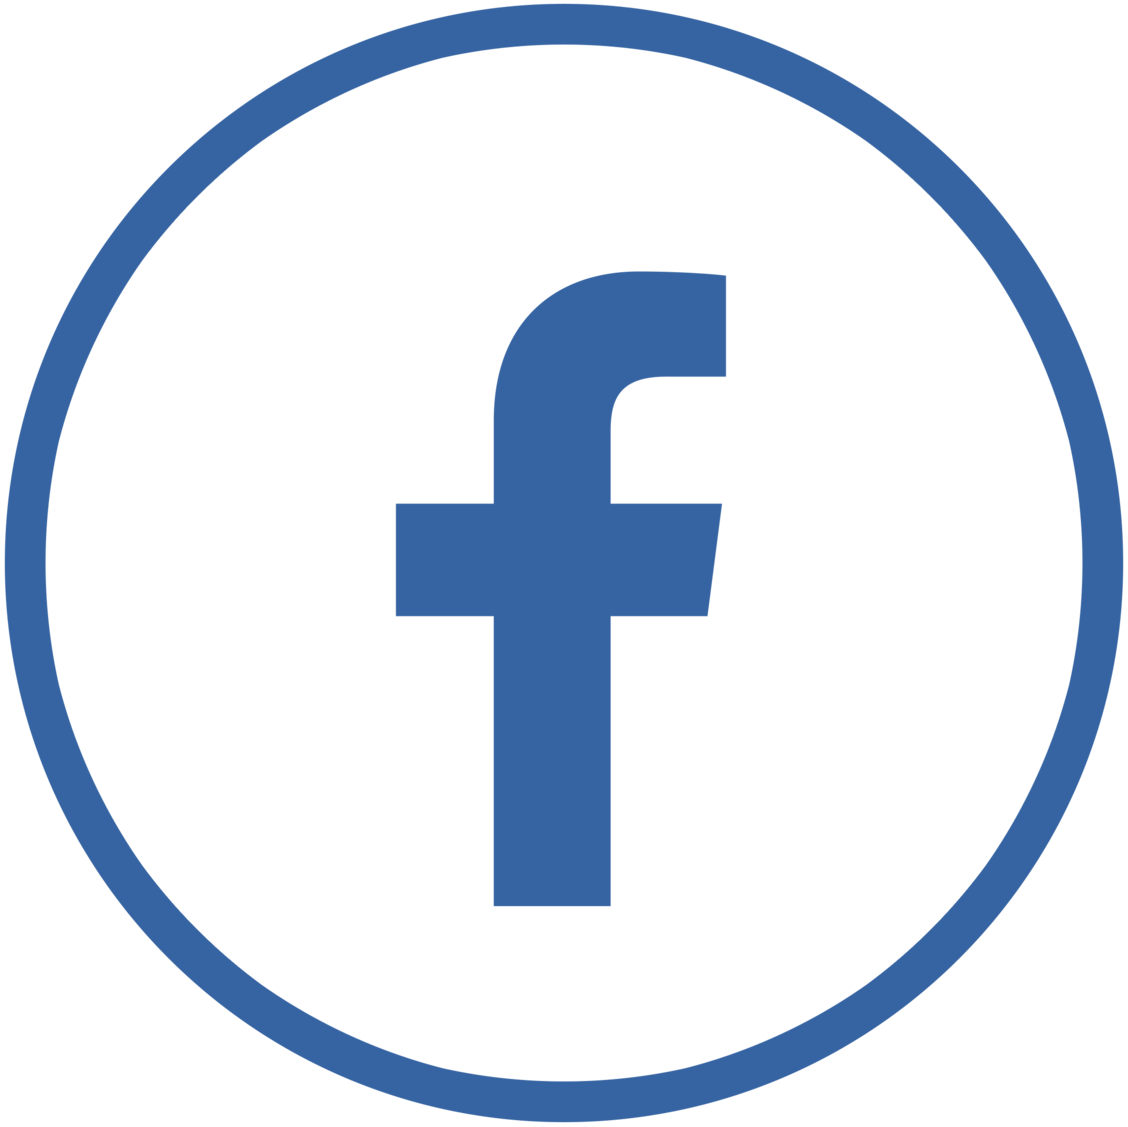
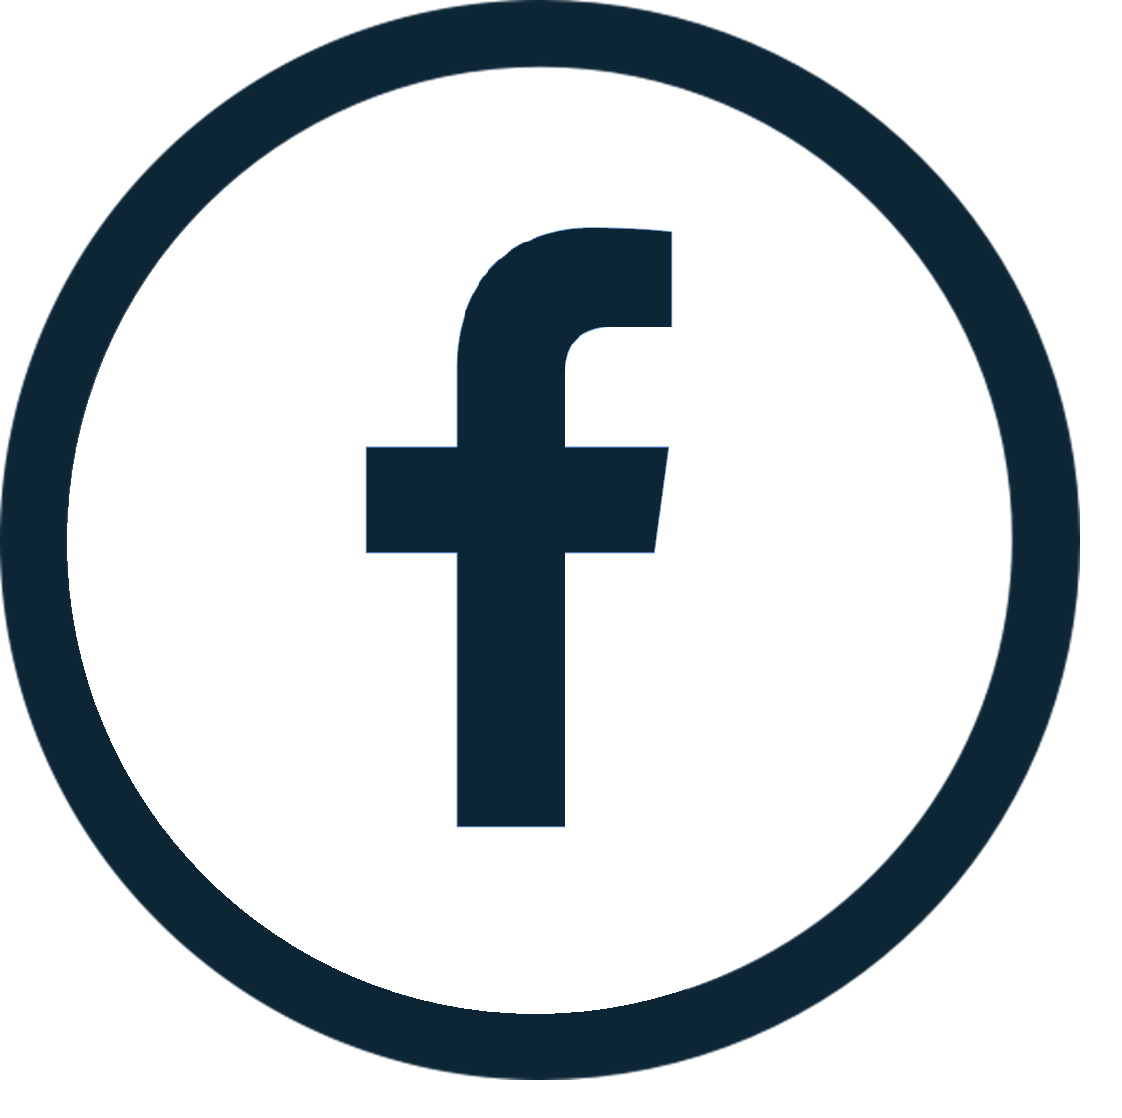
Interface update

diff --git a/projectStyles.css b/projectStyles.css
@@ -7,9 +7,8 @@
 
 header {
     width: 100%;
-    background-color: white;
-    border-bottom: 4px solid #464545;
     text-align: center;
+    background-color: white;
 }
 
 #theConquerorsLogo {
@@ -19,18 +18,27 @@ header {
 
 /*------------------------------------------------FOOTER--------------------------------------------------------------*/
 
+
 #footerLink {
     font-size: 12px;
 }
 
-
 /*----------------------------------------------SOCIAL BAR------------------------------------------------------------*/
 
-#socialBar {
+#socialBarHome {
     height: 74px;
-    text-align: right;
+    padding: 20px;
+    text-align: center;
     background-color: #adad5c;
-    border-bottom: 4px solid #464545;
+    margin-top: 145px;
+}
+
+#socialBarApp {
+    height: 74px;
+    padding: 20px;
+    text-align: center;
+    background-color: #adad5c;
+    margin-top: -137px;
 }
 
 #qrBtnDiv {
@@ -64,34 +72,56 @@ header {
 }
 
 #twitterLogo {
-    height: 60px;
-    width: 75px;
-    margin: 7px 16px;
-}
-
-#facebookLogo {
-    height: 60px;
-    width: 60px;
+    height: 70px;
+    width: 70px;
     margin: 7px 16px;
 }
 
 #twitterLogo:hover {
+    height: 80px;
+    width: 80px;
+    margin: 2px 11px;
+}
+
+#facebookLogo {
     height: 70px;
-    width: 85px;
-    margin: 2px 8px;
+    width: 70px;
+    margin: 7px 16px;
+}
+
+#facebookLink {
+    text-decoration: none;
 }
 
 #facebookLogo:hover {
-    height: 70px;
-    width: 70px;
+    height: 80px;
+    width: 80px;
     margin: 2px 11px;
 
+}
+
+#githubLogo {
+    height: 70px;
+    width: 70px;
+    margin: 7px 16px;
+}
+
+#githubLogo:hover {
+    height: 80px;
+    width: 80px;
+    margin: 2px 11px;
+
+}
+
+#gitHubLink {
+    text-decoration: none;
 }
 
 /*-------------------------------------------------BODY---------------------------------------------------------------*/
 
 body {
-    background-image: /IMAGES("background.png");
+    background-image: url("IMAGES/background.png");
+    background-size: cover;
     margin: 0;
     text-align: center;
 }
@@ -100,10 +130,9 @@ video#preview.active {
     width: 100%;
     text-align: center;
 }
-
-#content {
-    padding: 20px; 
-    background-color: black;
+#headBar {
+    height: 130px;
+    background-color: #001f2c;
 }
 
 /*=============================================LANDING PAGE===========================================================*/
@@ -112,10 +141,10 @@ video#preview.active {
     padding: 75px;
     margin: 30px 20px;
     font-size: 20px;
-    color: #FFFFFF;
-    background-color: darkcyan;
-    text-align: justify;
-    border: 2px solid red;
+    color: #464545;
+    background-color: #FFFFFF;
+    text-align: center;
+    border: 2px solid #464545;
 }
 
 #startBtn:before {
@@ -138,12 +167,13 @@ video#preview.active {
 
 #startBtn {
     display: block;
-    margin: 20px 20px;
-    padding: 10px;
+    margin: 30px 20px;
+    padding: 50px;
     font-size: 70px;
     text-align: center;
     border-bottom: 1px solid #464545;
     background-color: #464545;
+    box-shadow: 2px 2px 45px;
 }
 
 #startBtn a {
@@ -152,9 +182,14 @@ video#preview.active {
     color: #FFFFFF;
 }
 
+#developersList {
+    padding: 20px;
+}
+
 #tagLine {
     margin: 40px;
     text-align: center;
+    color: #FFFFFF;
     font-size: 50px;
     font-weight: 900;
 }
@@ -162,6 +197,7 @@ video#preview.active {
 #groupList {
     padding: 0;
     text-align: center;
+    color: #FFFFFF;
     list-style-type: none;
     font-size: 40px;
 }
@@ -172,33 +208,35 @@ video#preview.active {
 
 #instructionsBox {
     display: block;
-    padding: 35px;
+    padding: 75px;
     margin: 30px 20px;
     font-size: 20px;
-    color: #FFFFFF;
-    background-color: darkcyan;
-    text-align: justify;
-    border: 2px solid red;
+    color: #464545;
+    background-color: #FFFFFF;
+    border: 2px solid #464545;
 }
 
 #instructionsP {
+    margin-top: 0px;
     text-align: center;
     text-decoration: underline;
-    font-size: xx-large;
+    font-size: 50px;
 }
 
 #instructionsList {
-    text-align: justify;
+    text-align: left;
+    padding: 5px;
 }
 
 #selectTH {
-    color: #000000;
+    color: #FFFFFF;
     font-size: 45px;
+    font-weight: 900;
     text-align: center;
 }
 
 #challenges {
-    padding: 0;
+    padding: 20px;
 }
 
 /*-----------------------------------------------PHASE 02-------------------------------------------------------------*/

diff --git a/index.html b/index.html
@@ -18,27 +18,18 @@
     <title>Index</title>
 
     <!-- Link a CSS file for layout and styling-->
-    <link rel="stylesheet" type="text/css" href="CSS/projectStyles.css">
+    <link rel="stylesheet" type="text/css" href="projectStyles.css">
     <link rel='icon' href='IMAGES/FaviconLogoConquerors.png' type='image/x-icon'>
 </head>
 
 <body>
-
 <!------------------------------------------------HEADER--------------------------------------------------------------->
 
 <header>
     <img src="IMAGES/Original.svg" alt="The Conquerors Logo" id="theConquerorsLogo">
 </header>
 
-<!--Social Bar-->
-<div id="socialBar">
-    <a id="twitterLink" href="https://twitter.com/TheConquerors4/">
-        <img src="IMAGES/twitter.png" alt="Twitter Logo" id="twitterLogo">
-    </a>
-
-    <a href="https://www.facebook.com/theConquerorsTreasureHunt/">
-        <img src="IMAGES/facebook.png" alt="Twitter Logo" id="facebookLogo">
-    </a>
+<div id="headBar">
 </div>
 
 <!--Welcome Paragraph-->
@@ -47,9 +38,7 @@
     <br>
 </p>
 
-<!--Start the quiz-->
-<h6 id="startBtn"><a href="app.html">START THE QUIZ</a></h6>
-
+<div id="developersList">
 <h6 id="tagLine">Developers</h6>
 
 <ul id="groupList">
@@ -57,18 +46,33 @@
     <li>Iakovos Kyriakou</li>
     <li>Kostas Ioannou</li>
 </ul>
-
-<div id="content" style="margin-top: 100px;">
-
-
 </div>
+
+<!--Start the quiz-->
+<h6 id="startBtn"><a href="app.html">START THE QUIZ</a></h6>
 
 <!------------------------------------------------FOOTER--------------------------------------------------------------->
 
 <footer>
-    <p id="footerLink">To check our GitHub repository please visit:
-        <a href="https://github.com/AGEORGIOU4/TheConquerorsProject">https://github.com/AGEORGIOU4/TheConquerorsProject</a>
-    </p>
+    <div id="content">
+        <!--Social Bar-->
+        <div id="socialBarHome">
+            <a id="twitterLink" class="socialButtons" href="https://twitter.com/TheConquerors4/">
+                <img src="IMAGES/twitter.png" alt="Twitter Logo" id="twitterLogo">
+            </a>
+
+            <a  id="facebookLink" class="socialButtons" href="https://www.facebook.com/theConquerorsTreasureHunt/">
+                <img src="IMAGES/facebook.png" alt="Facebook Logo" id="facebookLogo">
+            </a>
+
+            <a  id="gitHubLink" class="socialButtons" href="https://github.com/AGEORGIOU4/TheConquerorsProject">
+                <img src="IMAGES/github.png" alt="GitHub Logo" id="githubLogo">
+            </a>
+
+        </div>
+
+
+    </div>
 </footer>
 
 </body>

diff --git a/app.html b/app.html
@@ -21,7 +21,7 @@
     
     <script src="QRCodeReader/js/instascan.min.js"></script>
     <script src="JS/javascript.js"></script>
-    <link rel="stylesheet" type="text/css" href="CSS/projectStyles.css">
+    <link rel="stylesheet" type="text/css" href="projectStyles.css">
     <link rel='icon' href='IMAGES/FaviconLogoConquerors.png' type='image/x-icon'>
 
 </head>
@@ -34,22 +34,7 @@
         <img src="IMAGES/Original.svg" alt="The Conquerors Logo" id="theConquerorsLogo">
 </header>
 
-<!--Social Bar-->
-<div id="socialBar">
-    <div id="qrBtnDiv">
-        <!--QR CODE READER-->
-        <img src="IMAGES/qrCode.png" onclick="QRCodeReader()" id="qrBtn" alt="QR BUTTON">
-        <!--SKIP BUTTON-->
-        <button id="skipButton" onclick="skipIt()">SKIP</button>
-    </div>
-
-    <a id="twitterLink" href="https://twitter.com/TheConquerors4/">
-        <img src="IMAGES/twitter.png" alt="Twitter Logo" id="twitterLogo">
-    </a>
-
-    <a href="https://www.facebook.com/theConquerorsTreasureHunt/">
-        <img src="IMAGES/facebook.png" alt="Twitter Logo" id="facebookLogo">
-    </a>
+<div id="headBar">
 </div>
 
 <!-----------------------------------------------PHASE 01-------------------------------------------------------------->
@@ -123,16 +108,28 @@
 
 </video>
 
-<div id="content" style="margin-top: -150px;">
-
-</div>
-
 <!------------------------------------------------FOOTER--------------------------------------------------------------->
 
 <footer>
-    <p id="footerLink">To check our GitHub repository please visit:
-        <a href="https://github.com/AGEORGIOU4/TheConquerorsProject">https://github.com/AGEORGIOU4/TheConquerorsProject</a>
-    </p>
+    <div id="content">
+        <!--Social Bar-->
+        <div id="socialBarApp">
+            <a id="twitterLink" class="socialButtons" href="https://twitter.com/TheConquerors4/">
+                <img src="IMAGES/twitter.png" alt="Twitter Logo" id="twitterLogo">
+            </a>
+
+            <a  id="facebookLink" class="socialButtons" href="https://www.facebook.com/theConquerorsTreasureHunt/">
+                <img src="IMAGES/facebook.png" alt="Facebook Logo" id="facebookLogo">
+            </a>
+
+            <a  id="gitHubLink" class="socialButtons" href="https://github.com/AGEORGIOU4/TheConquerorsProject">
+                <img src="IMAGES/github.png" alt="GitHub Logo" id="githubLogo">
+            </a>
+
+        </div>
+
+
+    </div>
 </footer>
 
 
